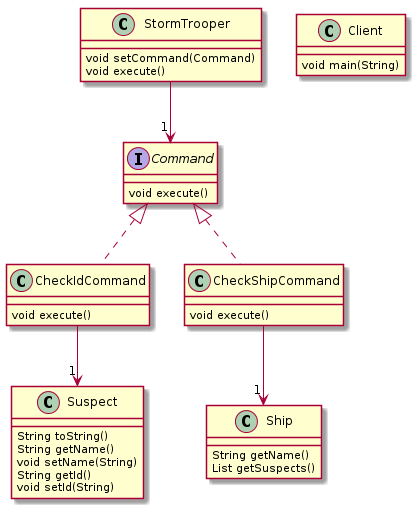
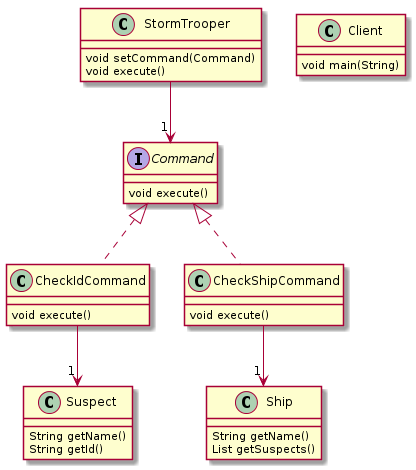
various cleanup and better notes

diff --git a/index.html b/index.html
@@ -262,6 +262,8 @@ So you start out by telling them:
 - look around for some droids and
 - for the people that are with the droids... check their identification
 
+Should be a piece cake. How hard could this be?
+
 ---
 
 # CheckIdCommand and supertype
@@ -287,9 +289,11 @@ So! You've got this CheckIdCommand.
 
 The first thing to notice is that the individual commands always implements the command interface.
 
-(Technically, it doesn't have to be a Java interface; it can be an abstract class.)
+(Technically, you don't have to use the `interface` keyword; It can be an abstract class.)
 
-Notice that the command interface is very simple. It only requires that implement a single command, which is often called `execute()`.
+Notice that the command interface is very simple. It only requires that you implement a single method, which is often called `execute()`.
+
+That's some of the power of the dark side... er, power of the command pattern... that no matter what the command is called, the complexity is hidden behind a consistently named method such as execute.
 
 ---
 
@@ -308,7 +312,7 @@ public class CheckIdCommand implements Command {
 
     public void execute() {
         try {
-            System.out.println("Id for " + suspect + " is " + suspect.getId());
+            System.out.println("Id for " + suspect.getName() + " is " + suspect.getId());
         } catch (Exception ex) {
             System.out.println("Move along, move along.");
         }
@@ -322,11 +326,11 @@ public class CheckIdCommand implements Command {
 
 Here's the full `CheckIdCommand` example.
 
-Notice that a suspect gets passed into the constructor. In this case the suspect is Obiwan Kenobe so there's the danger of a JediMindTrick exception being thrown.
+Notice that a suspect gets passed into the constructor of the command. In this case the suspect is Obiwan Kenobe so there's the danger of a JediMindTrick exception being thrown.
 
 Perhaps unwisely, if any exception is thrown at all, the stormtrooper simply says, "Move along, move along."
 
-That's all contained in the execute() method, which again is required by the command interface.
+That's all contained in the execute() method, which again is required by the command interface. All commands have an execute() method.
 
 ---
 
@@ -334,29 +338,159 @@ That's all contained in the execute() method, which again is required by the com
 
 <img src="images/not-the-droids.png" width="200"/>
 
+```java
+System.out.println("# Mos Eisley checkpoint");
+Suspect obiwan = new Suspect("Obiwan", Suspect.Type.JEDI); // receiver
+Command checkIdCommand = new CheckIdCommand(obiwan);
+StormTrooper stormTrooper = new StormTrooper(checkIdCommand); // invoker
+stormTrooper.execute(); // Move along, move along.
+```
+
+- command bound to receiver
+- invoker is given a command to execute
+
+???
+
+In the command pattern the client is the piece ties it everthing together. We'll see all of the components in play.
+
+Before we instatiate our CheckIdCommand, we need to decide which Suspect we're going to bind it to. Whose id are we going to check? A Jawa? A Tuskan Raider? No... we've got Obiwan here, so he's what gets passed in when we create the command. Obiwan is the "receiver" of the command.
+
+And who's going to execute the CheckIdCommand? The stormtrooper. We've got a constructor that allows us to instantiate the stormtrooper with the command we want.
+
+Of course, when we call execute that stupid JediMindTrick exception gets thrown so we just say, "We don't need to see his identification." 
+
+---
+
+# One Invoker, Two Commands
+
+<img src="images/not-the-droids.png" width="200"/>
 
 ```java
 System.out.println("# Mos Eisley checkpoint");
-Suspect obiwan = new Suspect("Obiwan", Suspect.Type.JEDI);
+Suspect obiwan = new Suspect("Obiwan", Suspect.Type.JEDI); // receiver
 Command checkIdCommand = new CheckIdCommand(obiwan);
 StormTrooper stormTrooper = new StormTrooper(checkIdCommand);
 stormTrooper.execute(); // Move along, move along.
 
 System.out.println("# Death Star hangar");
-Ship falcon = new Ship("Millenium Falcon", Ship.Type.SMUGGLING);
+Ship falcon = new Ship("Millenium Falcon", Ship.Type.SMUGGLING); // receiver
 Command checkShipCommand = new CheckShipCommand(falcon);
-stormTrooper.setCommand(checkShipCommand);
+stormTrooper.setCommand(checkShipCommand); // same invoker, new command
 stormTrooper.execute(); // No one on board.
 ```
 
-- commands are bound to objects (suspects, ships)
-- same stormtrooper given a new command with setCommand()
+- same stormtrooper given different commands
 
-???
+---
 
-Here we finally get the whole picture.
+class: bigfont
 
-In both cases, the stormtrooper simply calls execute() to execute the command, no matter if it's the CheckIdCommand or the CheckShipCommand.
+# Star Wars Class Diagram
+
+<img src="images/starwars-classes.png" width="320" align="right"/>
+
+**Client**: Client
+
+**Concrete Commands**: CheckIdCommand, CheckShipCommand
+
+**Receiver**: Suspect, Ship
+
+**Invoker**: StormTrooper
+
+---
+
+# Stormtrooper/Invoker
+
+```java
+public class StormTrooper {
+
+    private Command command;
+
+    public StormTrooper(Command command) {
+        this.command = command;
+    }
+
+    public void setCommand(Command command) {
+        this.command = command;
+    }
+
+    public void execute() {
+        command.execute();
+    }
+
+}
+
+```
+---
+
+# Suspect/Receiver
+
+```java
+public class Suspect {
+
+    private String name;
+    private Type type;
+    private String id;
+
+    public Suspect(String name, Type type) {
+        this.name = name;
+        this.type = type;
+    }
+
+    public String getName() {
+        return name;
+    }
+
+    public String getId() {
+        if (type.equals(Type.JEDI)) {
+            throw new RuntimeException("Jedi mind trick!");
+        } else {
+            return id;
+        }
+    }
+
+    public enum Type { JEDI, OTHER }
+}
+```
+
+---
+
+# Another Command Example
+
+```java
+public class CheckShipCommand implements Command {
+
+    Ship ship;
+
+    public CheckShipCommand(Ship ship) {
+        this.ship = ship;
+    }
+
+    public void execute() {
+        if (!ship.getSuspects().isEmpty()) {
+            System.out.println("Found " + ship.getSuspects().size() + " suspects in " + ship.getName());
+        } else {
+            System.out.println("No one on board.");
+        }
+    }
+
+}
+```
+---
+
+class: bigfont
+
+# Star Wars Class Diagram
+
+<img src="images/starwars-classes.png" width="320" align="right"/>
+
+**Client**: Client
+
+**Concrete Commands**: CheckIdCommand, CheckShipCommand
+
+**Receiver**: Suspect, Ship
+
+**Invoker**: StormTrooper
 
 ---
 
@@ -372,22 +506,6 @@ The Command Pattern encapsulates a request as an object, thereby letting you par
 - Command
 - Receiver
 - Invoker
-
----
-
-class: bigfont
-
-# Stormtrooper Class Diagram
-
-<img src="images/starwars-classes.png" width="320" align="right"/>
-
-**Client**: Client
-
-**Concrete Commands**: CheckIdCommand, CheckShipCommand
-
-**Receiver**: Suspect, Ship
-
-**Invoker**: StormTrooper
 
 ---
 

diff --git a/src/main/java/com/greptilian/javaone2014bof5619/starwars/Suspect.java b/src/main/java/com/greptilian/javaone2014bof5619/starwars/Suspect.java
@@ -11,17 +11,8 @@ public class Suspect {
         this.type = type;
     }
 
-    @Override
-    public String toString() {
-        return name;
-    }
-
     public String getName() {
         return name;
-    }
-
-    public void setName(String name) {
-        this.name = name;
     }
 
     public String getId() {
@@ -30,10 +21,6 @@ public class Suspect {
         } else {
             return id;
         }
-    }
-
-    public void setId(String id) {
-        this.id = id;
     }
 
     public enum Type {

diff --git a/src/main/java/com/greptilian/javaone2014bof5619/starwars/CheckIdCommand.java b/src/main/java/com/greptilian/javaone2014bof5619/starwars/CheckIdCommand.java
@@ -10,7 +10,7 @@ public class CheckIdCommand implements Command {
 
     public void execute() {
         try {
-            System.out.println("Id for " + suspect + " is " + suspect.getId());
+            System.out.println("Id for " + suspect.getName() + " is " + suspect.getId());
         } catch (Exception ex) {
             System.out.println("Move along, move along.");
         }

diff --git a/src/main/java/com/greptilian/javaone2014bof5619/starwars/CheckShipCommand.java b/src/main/java/com/greptilian/javaone2014bof5619/starwars/CheckShipCommand.java
@@ -1,6 +1,6 @@
 package com.greptilian.javaone2014bof5619.starwars;
 
-class CheckShipCommand implements Command {
+public class CheckShipCommand implements Command {
 
     Ship ship;
 
